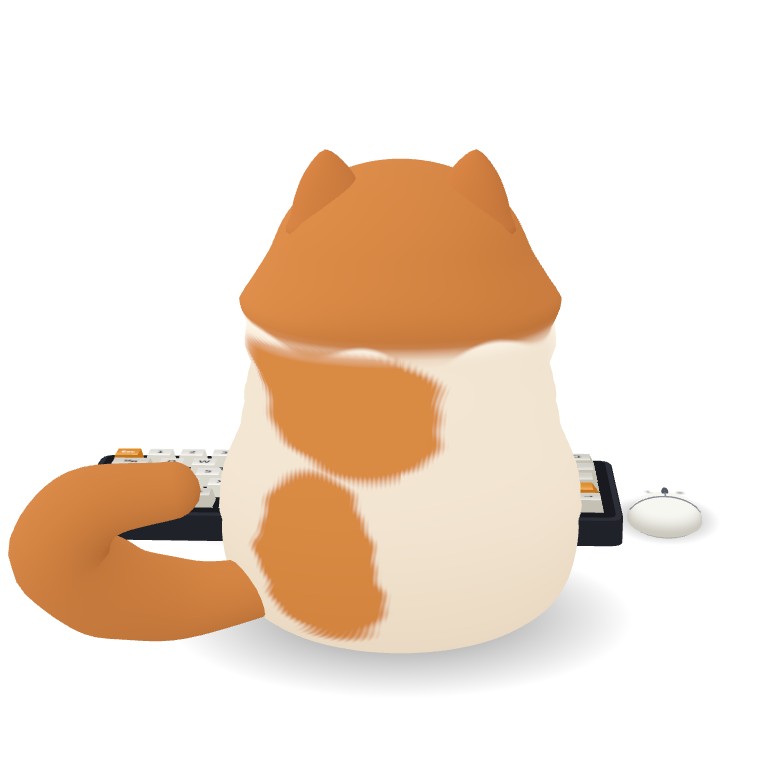
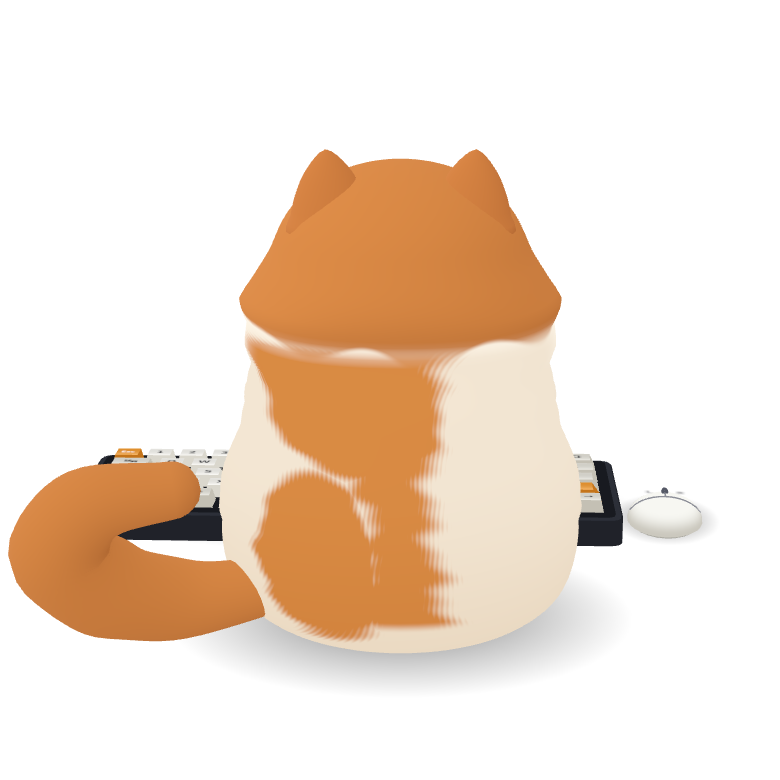
fix: combine Facai back reference markings

Changed region(s): [[0.4308, 0.5846, 0.5846, 0.8308], [0.4923, 0.4308, 0.5846, 0.4923]]

diff --git a/src/longhair3d.ts b/src/longhair3d.ts
@@ -322,9 +322,9 @@ function sculptMaterial(part: 'COAT' | 'EAR' | 'LIMB' | 'SOLID'): THREE.ShaderMa
           p = vLocation;
           color = uCream;
 
-          // The reference has a white spine between an asymmetric shoulder patch
-          // and a rear flank patch that joins the ginger tail. Rest coordinates
-          // keep both markings attached during breathing, sleep and swats.
+          // Both references share one coat: a narrow dorsal stripe, a shoulder
+          // patch and a rear flank patch visible from the side. Rest coordinates
+          // keep all markings attached during breathing, sleep and swats.
           float side = sign(p.x);
           float flow = p.y + 0.18 * abs(p.x);
           float locks = 0.024 * sin(19.0 * flow + side * 1.7)
@@ -338,9 +338,15 @@ function sculptMaterial(part: 'COAT' | 'EAR' | 'LIMB' | 'SOLID'): THREE.ShaderMa
                            p.y + 0.30 - 0.45 * (p.x - 0.44));
           float rearPatch = 1.0 - smoothstep(-0.10, 0.08,
             length(rear / vec2(0.36, 0.48)) - 1.0 + raggedEdge);
+          float spine = 0.025 + 0.026 * sin(4.7 * p.y + 0.3) + 0.012 * sin(11.0 * p.y);
+          float spineWidth = 0.205 + 0.025 * sin(8.0 * p.y - 0.6);
+          float spinePatch = 1.0 - smoothstep(-0.08, 0.08,
+            abs(p.x - spine) - spineWidth + raggedEdge);
+          spinePatch *= smoothstep(-0.74, -0.66, p.y) * smoothstep(0.30, 0.52, -p.z);
           float shoulderCoat = shoulderPatch * smoothstep(-0.20, 0.10, -p.z);
           float rearCoat = rearPatch * smoothstep(0.02, 0.30, -p.z);
-          color = mix(color, uFlank, max(shoulderCoat, rearCoat) * (1.0 - vHeadMix));
+          float backPatch = max(max(shoulderCoat, rearCoat), spinePatch);
+          color = mix(color, uFlank, backPatch * (1.0 - vHeadMix));
 
           // The broad ivory bib ends in a few rounded, downward locks.
           float bibEdge = -0.26 + 0.84 * abs(p.x) + 0.051 * cos(p.x * 23.0);

diff --git a/docs/skins/orange-white-longhair/back-markings.md b/docs/skins/orange-white-longhair/back-markings.md
@@ -1,6 +1,6 @@
 # 发财背部花纹修正（DEV-157）
 
-对照本任务最新的侧后实拍图，将发财原有的宽鞍斑、两侧橘斑和臀部橘斑，改为白底上的不对称肩背橘区与后侧橘区。脊柱中段保持白色，尾巴从根部起保持橘色。
+结合本任务的正背与侧后两张实拍图，将发财原有的宽鞍斑、两侧橘斑和臀部橘斑，改为白底上的中央狭长橘斑、不对称肩背橘区与后侧橘区。尾巴从根部起保持橘色。
 
 现有发财是实时 3D 皮肤：`src/longhair3d.ts` 生成模型和材质，DEV-156 的挥爪也是同一模型的实时动作，没有独立的逐帧 PNG 或 2D 挥爪素材。本次直接修正共用的背部材质，所有朝向、呼吸、低头、入睡和左右挥爪都使用该花纹。
 
@@ -12,9 +12,9 @@
 
 | 部位 | 原素材与实拍的差异 | 本次修正 |
 | --- | --- | --- |
-| 肩颈、上背 | 鞍斑与侧斑连成大面积橘色，缺少与白色体侧的区分 | 肩背橘区偏向一侧，不再沿脊柱向下延伸 |
-| 背部中段 | 横向鞍斑过宽，缺少参考图中的连续白毛 | 上下两块橘斑之间保留明确的白毛间隔 |
-| 体侧、髋部、臀部 | 两侧和臀部有大面积橘色 | 仅后侧橘斑向尾根斜向延伸，另一侧和臀部保持白色 |
+| 肩颈、上背 | 鞍斑与侧斑连成大面积橘色，缺少与白色体侧的区分 | 肩背橘区偏向一侧，并与中央长斑衔接 |
+| 背部中段 | 横向鞍斑过宽，缺少正背参考图的中央长斑 | 正背和俯视保留狭长、略弯曲的中央橘斑 |
+| 体侧、髋部、臀部 | 两侧和臀部有大面积橘色 | 侧后参考图中的后侧橘斑向尾根延伸，另一侧和臀部保持白色 |
 | 斑块边缘 | 多个规则椭圆叠加，边界较平滑、色块感明显 | 多尺度起伏、顺毛流的细丝和柔化过渡 |
 
 ![正面特征、挥爪与入睡修改前后](back-markings-features.png)
@@ -38,7 +38,7 @@ npm run test:back-markings
 
 - 6 个固定视角、左右挥爪各 25 帧、左右挥爪正面各 1 帧、入睡过渡 30 帧和入睡侧面，共 89 张透明 PNG。
 - 每张检查 WebGL alpha、透明背景与可见的宠物像素，并捕获浏览器和 GLSL 错误。
-- 在实际背部网格上定位后读取 11 个 GPU 像素：肩部中点/右侧、上背中点、右体侧和右髋应为橘色；左肩、脊柱中下段、左体侧、左髋和臀部应为白色。
+- 在实际背部网格上定位后读取 11 个 GPU 像素：肩部中点/右侧、上背中点、脊柱中下段、右体侧和右髋应为橘色；左肩、左体侧、左髋和臀部应为白色。
 - 尾根取样区域必须有橘色像素，尾巴主体取样区域必须保留超过 1,000 个橘色像素。
 - 原有挥爪单元测试及浏览器交互检查覆盖概率、左右选爪、肉垫/爪尖、抓痕、隐私中断、选键和动作结束后的恢复。
 
